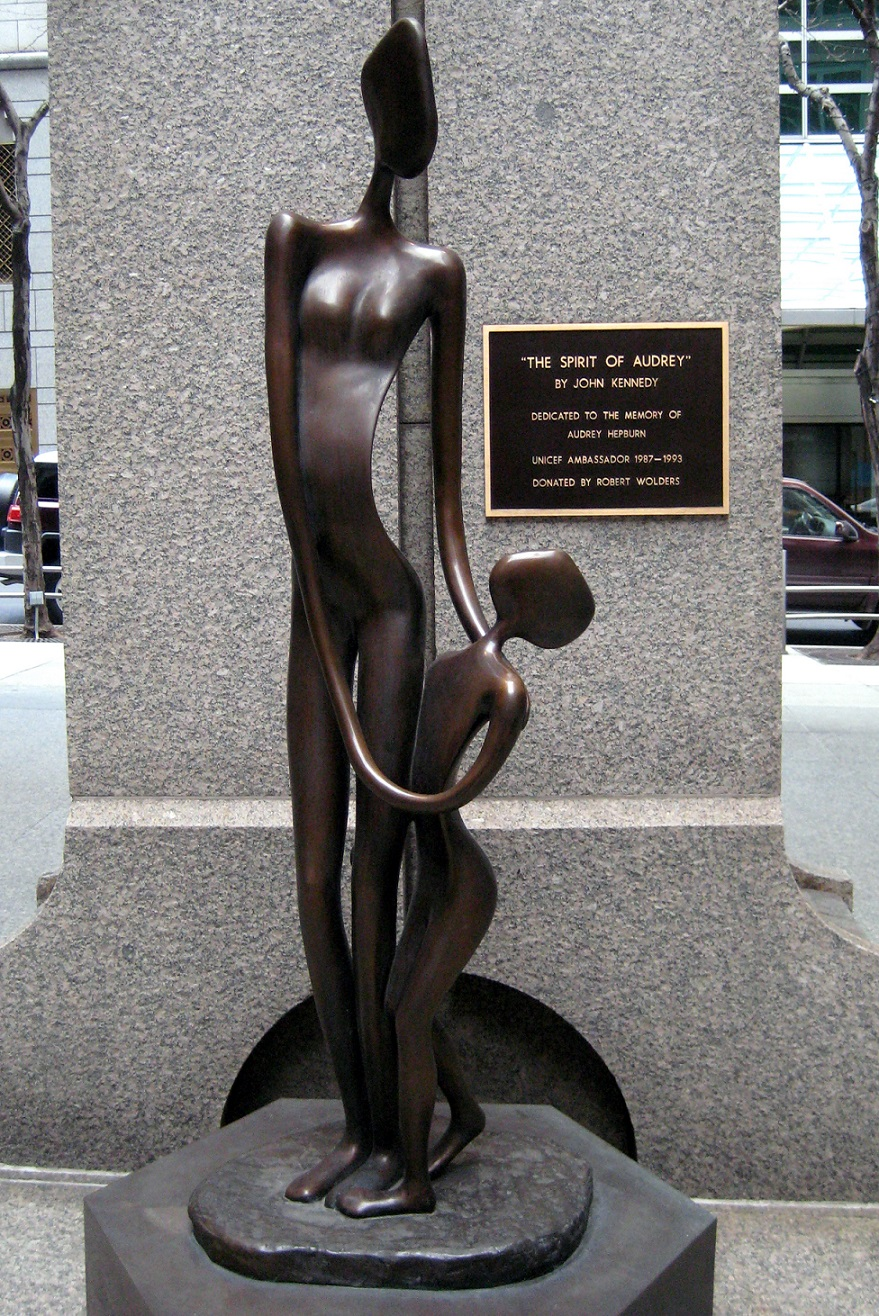
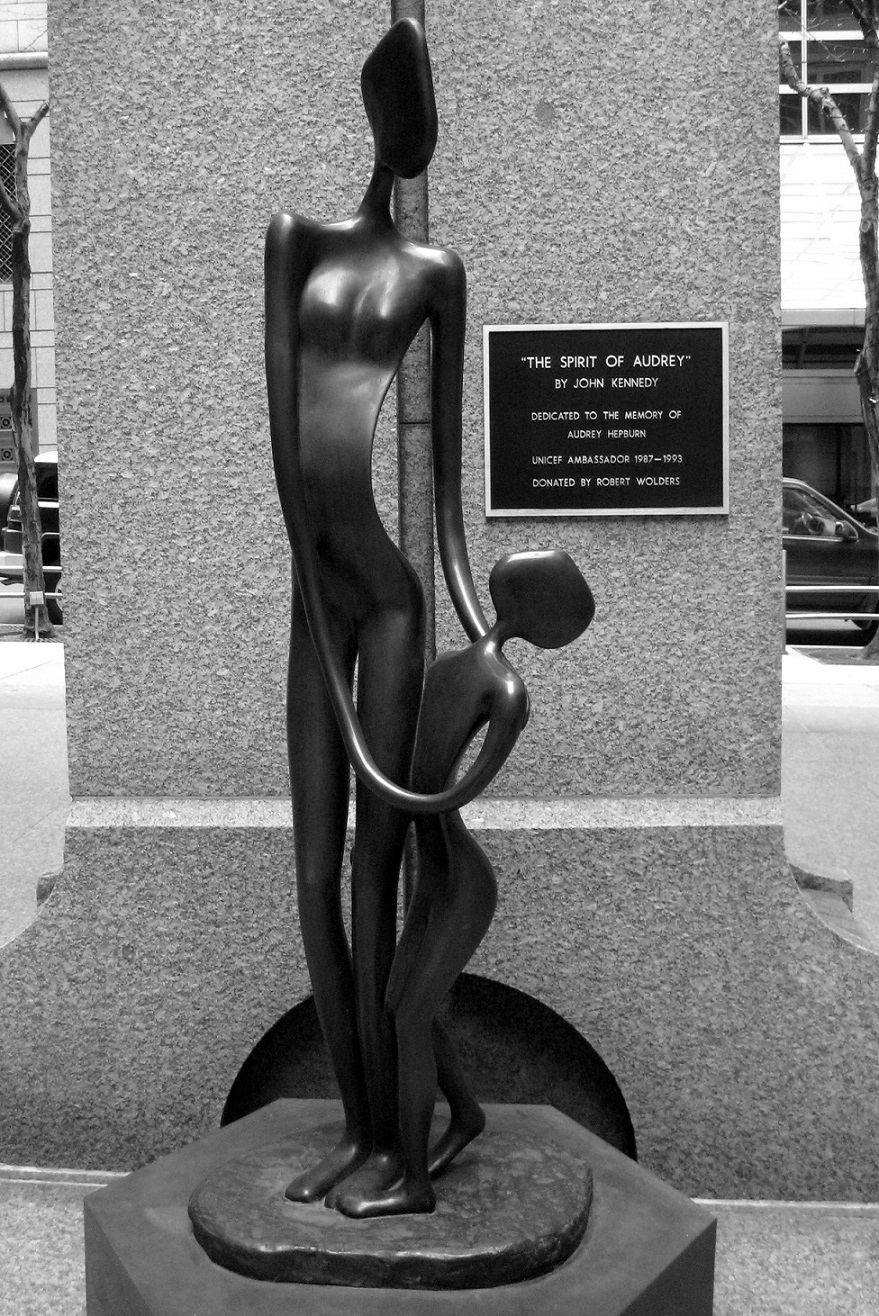
apply color palette, add <a> styles, convert 3.img to grayscale, optimize line length for readability

diff --git a/index.html b/index.html
@@ -94,7 +94,7 @@
                       </ul>
                       <figure class="thumbnail center-block">
                           <img src="images/3.jpg" alt="The Spirit of Audrey sculpture located in New York City outside of UNICEF headquarters" />
-                          <figcaption class="caption">The Spirit of Audrey is a seven-foot bronze sculpture located in New York City outside of UNICEF headquarters and celebrates Audrey Hepburn's work serving as a UNICEF goodwill ambassador. Photo by <a href="https://www.flickr.com/photos/wallyg/2258590471" target="_blank" title="Go to source of Spirit of Audrey sculpture photo">Wally Gobetz</a>.</figcaption>
+                          <figcaption class="caption">The Spirit of Audrey is a seven-foot bronze sculpture located in New York City outside of UNICEF headquarters and celebrates Audrey Hepburn's work serving as a UNICEF goodwill ambassador. Original photo by <a href="https://www.flickr.com/photos/wallyg/2258590471" target="_blank" title="Go to source of Spirit of Audrey sculpture photo">Wally Gobetz</a>.</figcaption>
                       </figure>
                       <blockquote>
                         <p>She had a great career as an actress, but I think she will be remembered just as much as a humanitarian, and that's the beauty of her years with UNICEF: She was an inspiration, she brought enormous world attention to children, she raised the profile of the challenges they face.</p>

diff --git a/css/style.css b/css/style.css
@@ -1,3 +1,9 @@
+/* Audrey Hepburn Tribute color palette
+black
+white
+#7C7C7C (gray)
+*/
+
 body {
     font-family: 'Lora', serif;
 }
@@ -34,16 +40,26 @@ header p:nth-of-type(2){
     font-size: 2em;
 }
 
-/*iPads (portrait and landscape) -----------*/ 
-@media only screen and (min-device-width : 768px) and (max-device-width : 1024px){
-    .thumbnail{
-        max-width: 75%;
-    }
+a:link{
+    color: black;
+    border-bottom: 1px dotted #7C7C7C;
 }
 
-/* Desktops and laptops ----------- */
-@media only screen  and (min-width : 1224px){
-    .thumbnail{
-        max-width: 50%;
-    }
+a:visited{
+    color: #7C7C7C;
+    text-decoration:none;
 }
+
+a:hover{
+    text-decoration:none;
+    font-weight: bold;
+}
+
+a:focus{
+    text-decoration:none;
+}
+
+/*Optimize line lengths for readability*/
+main .container{
+        max-width: 540px
+    }
